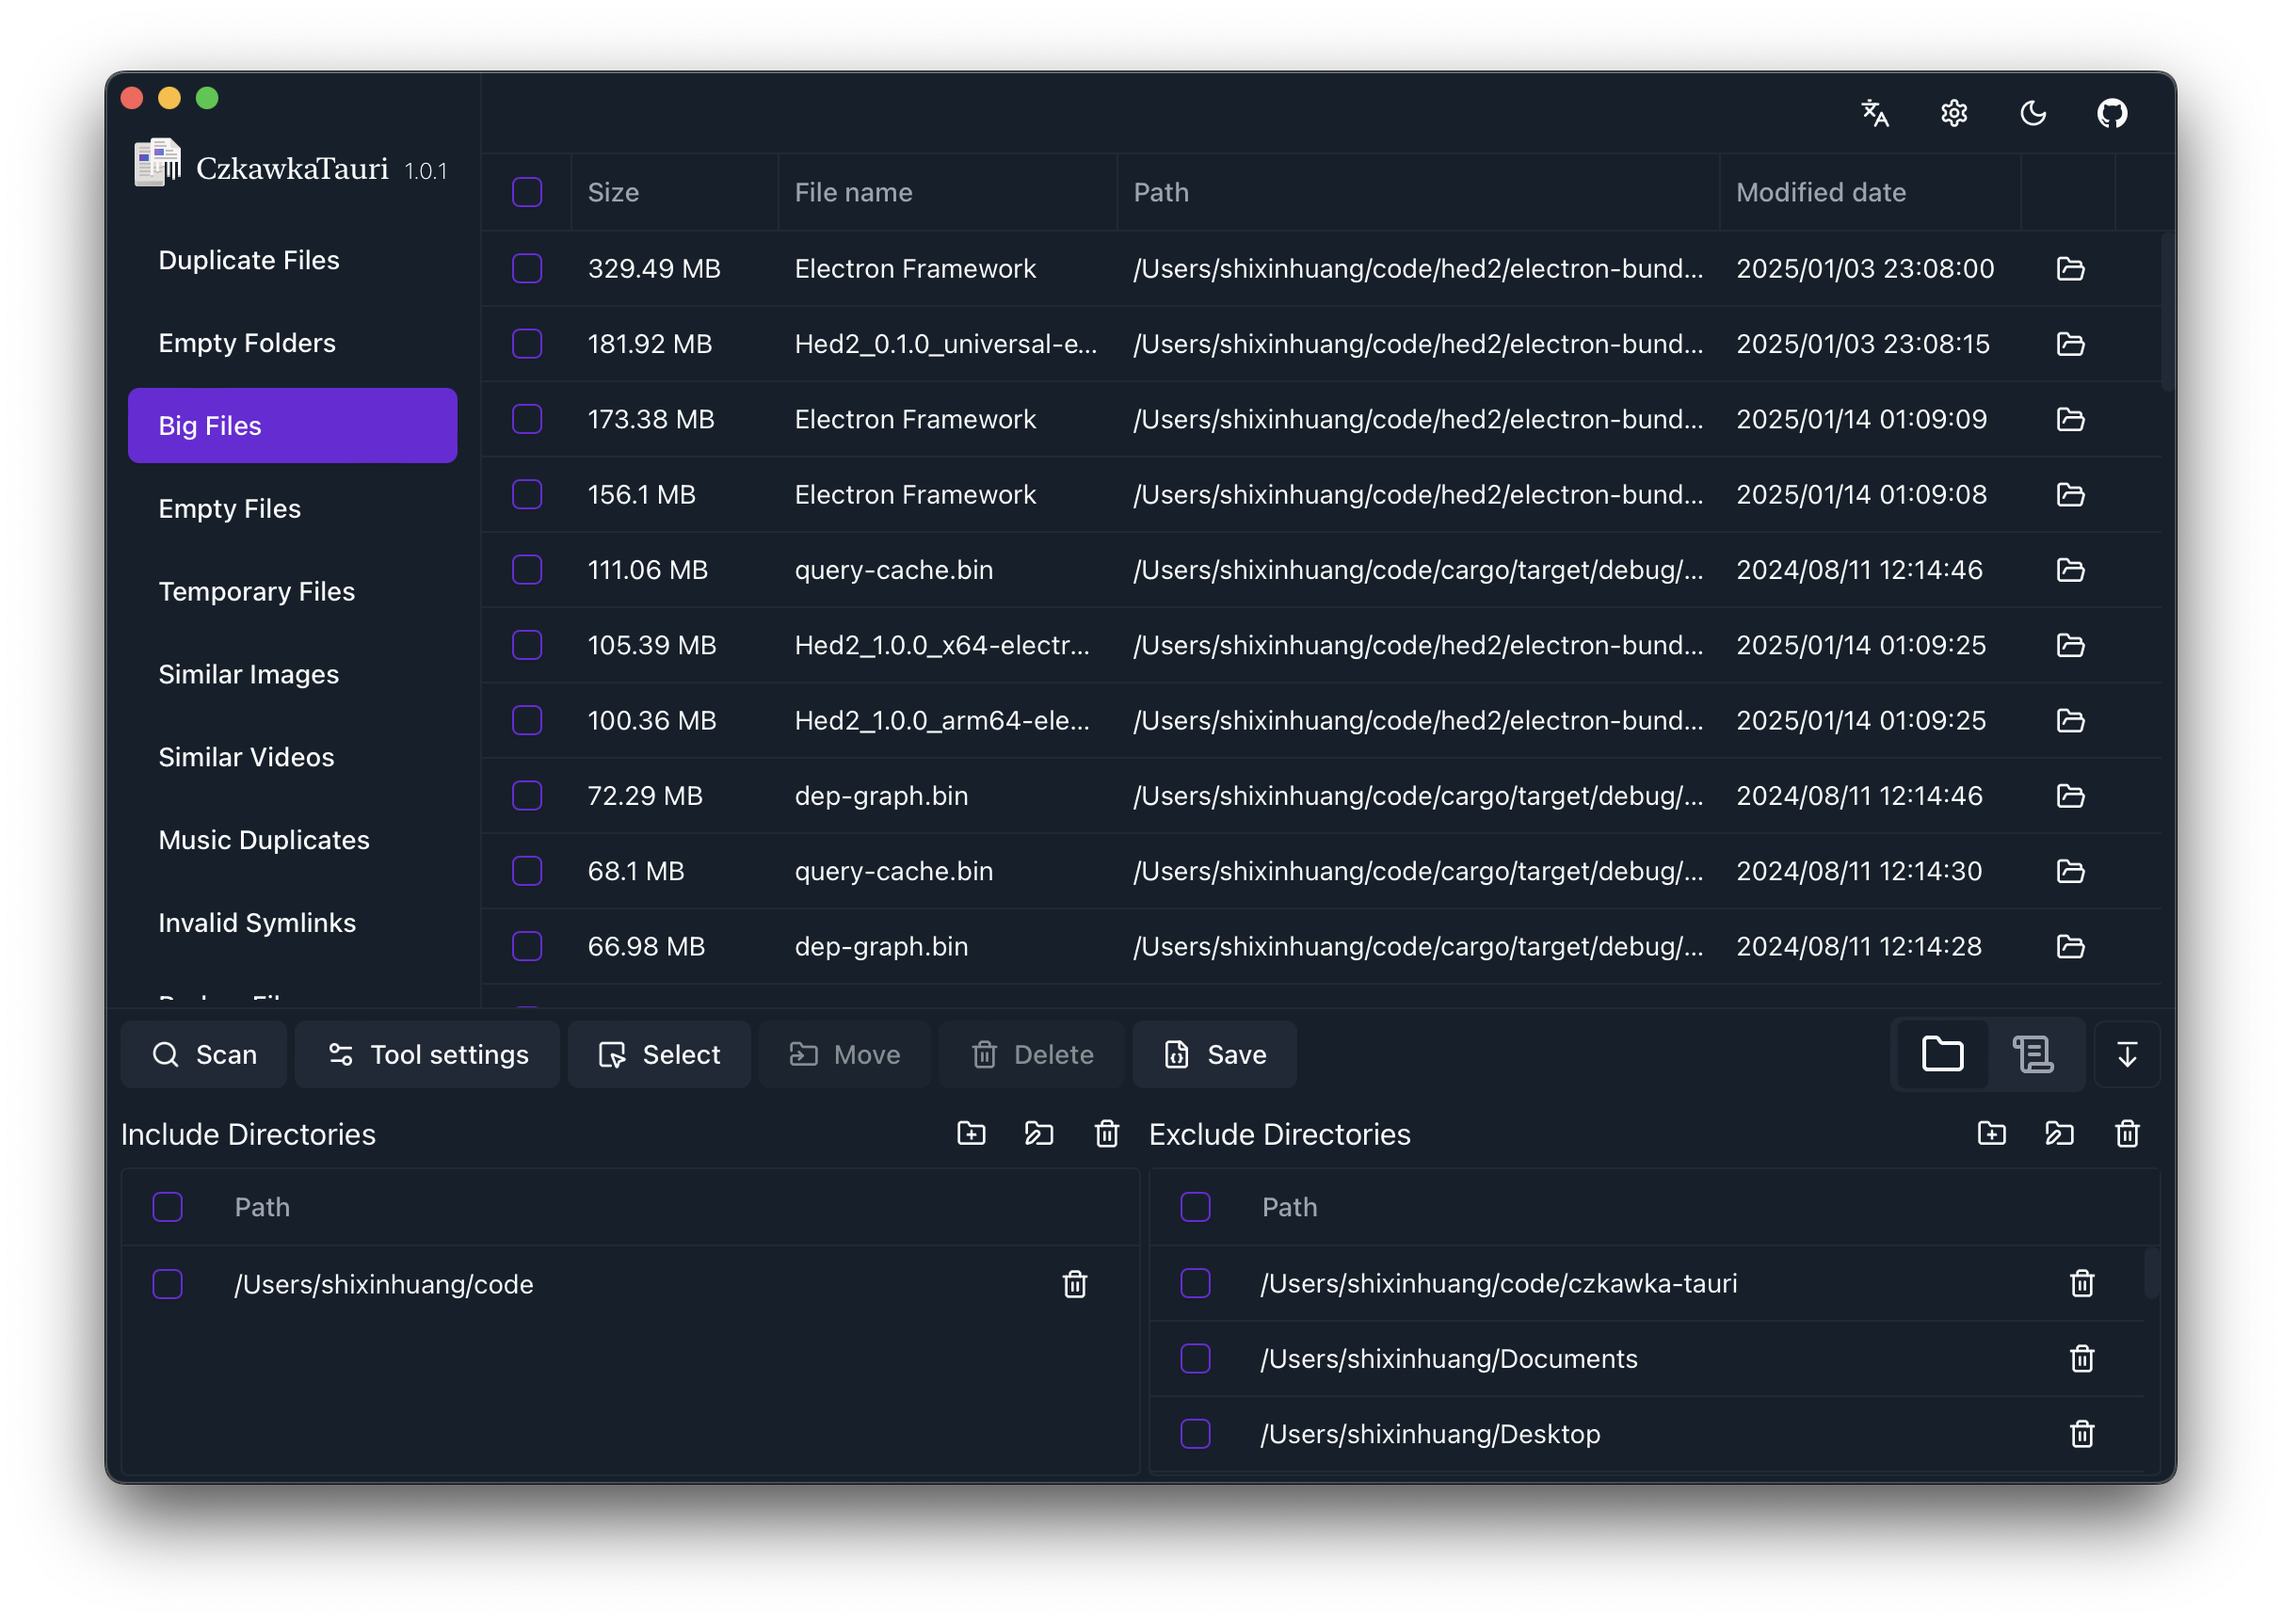
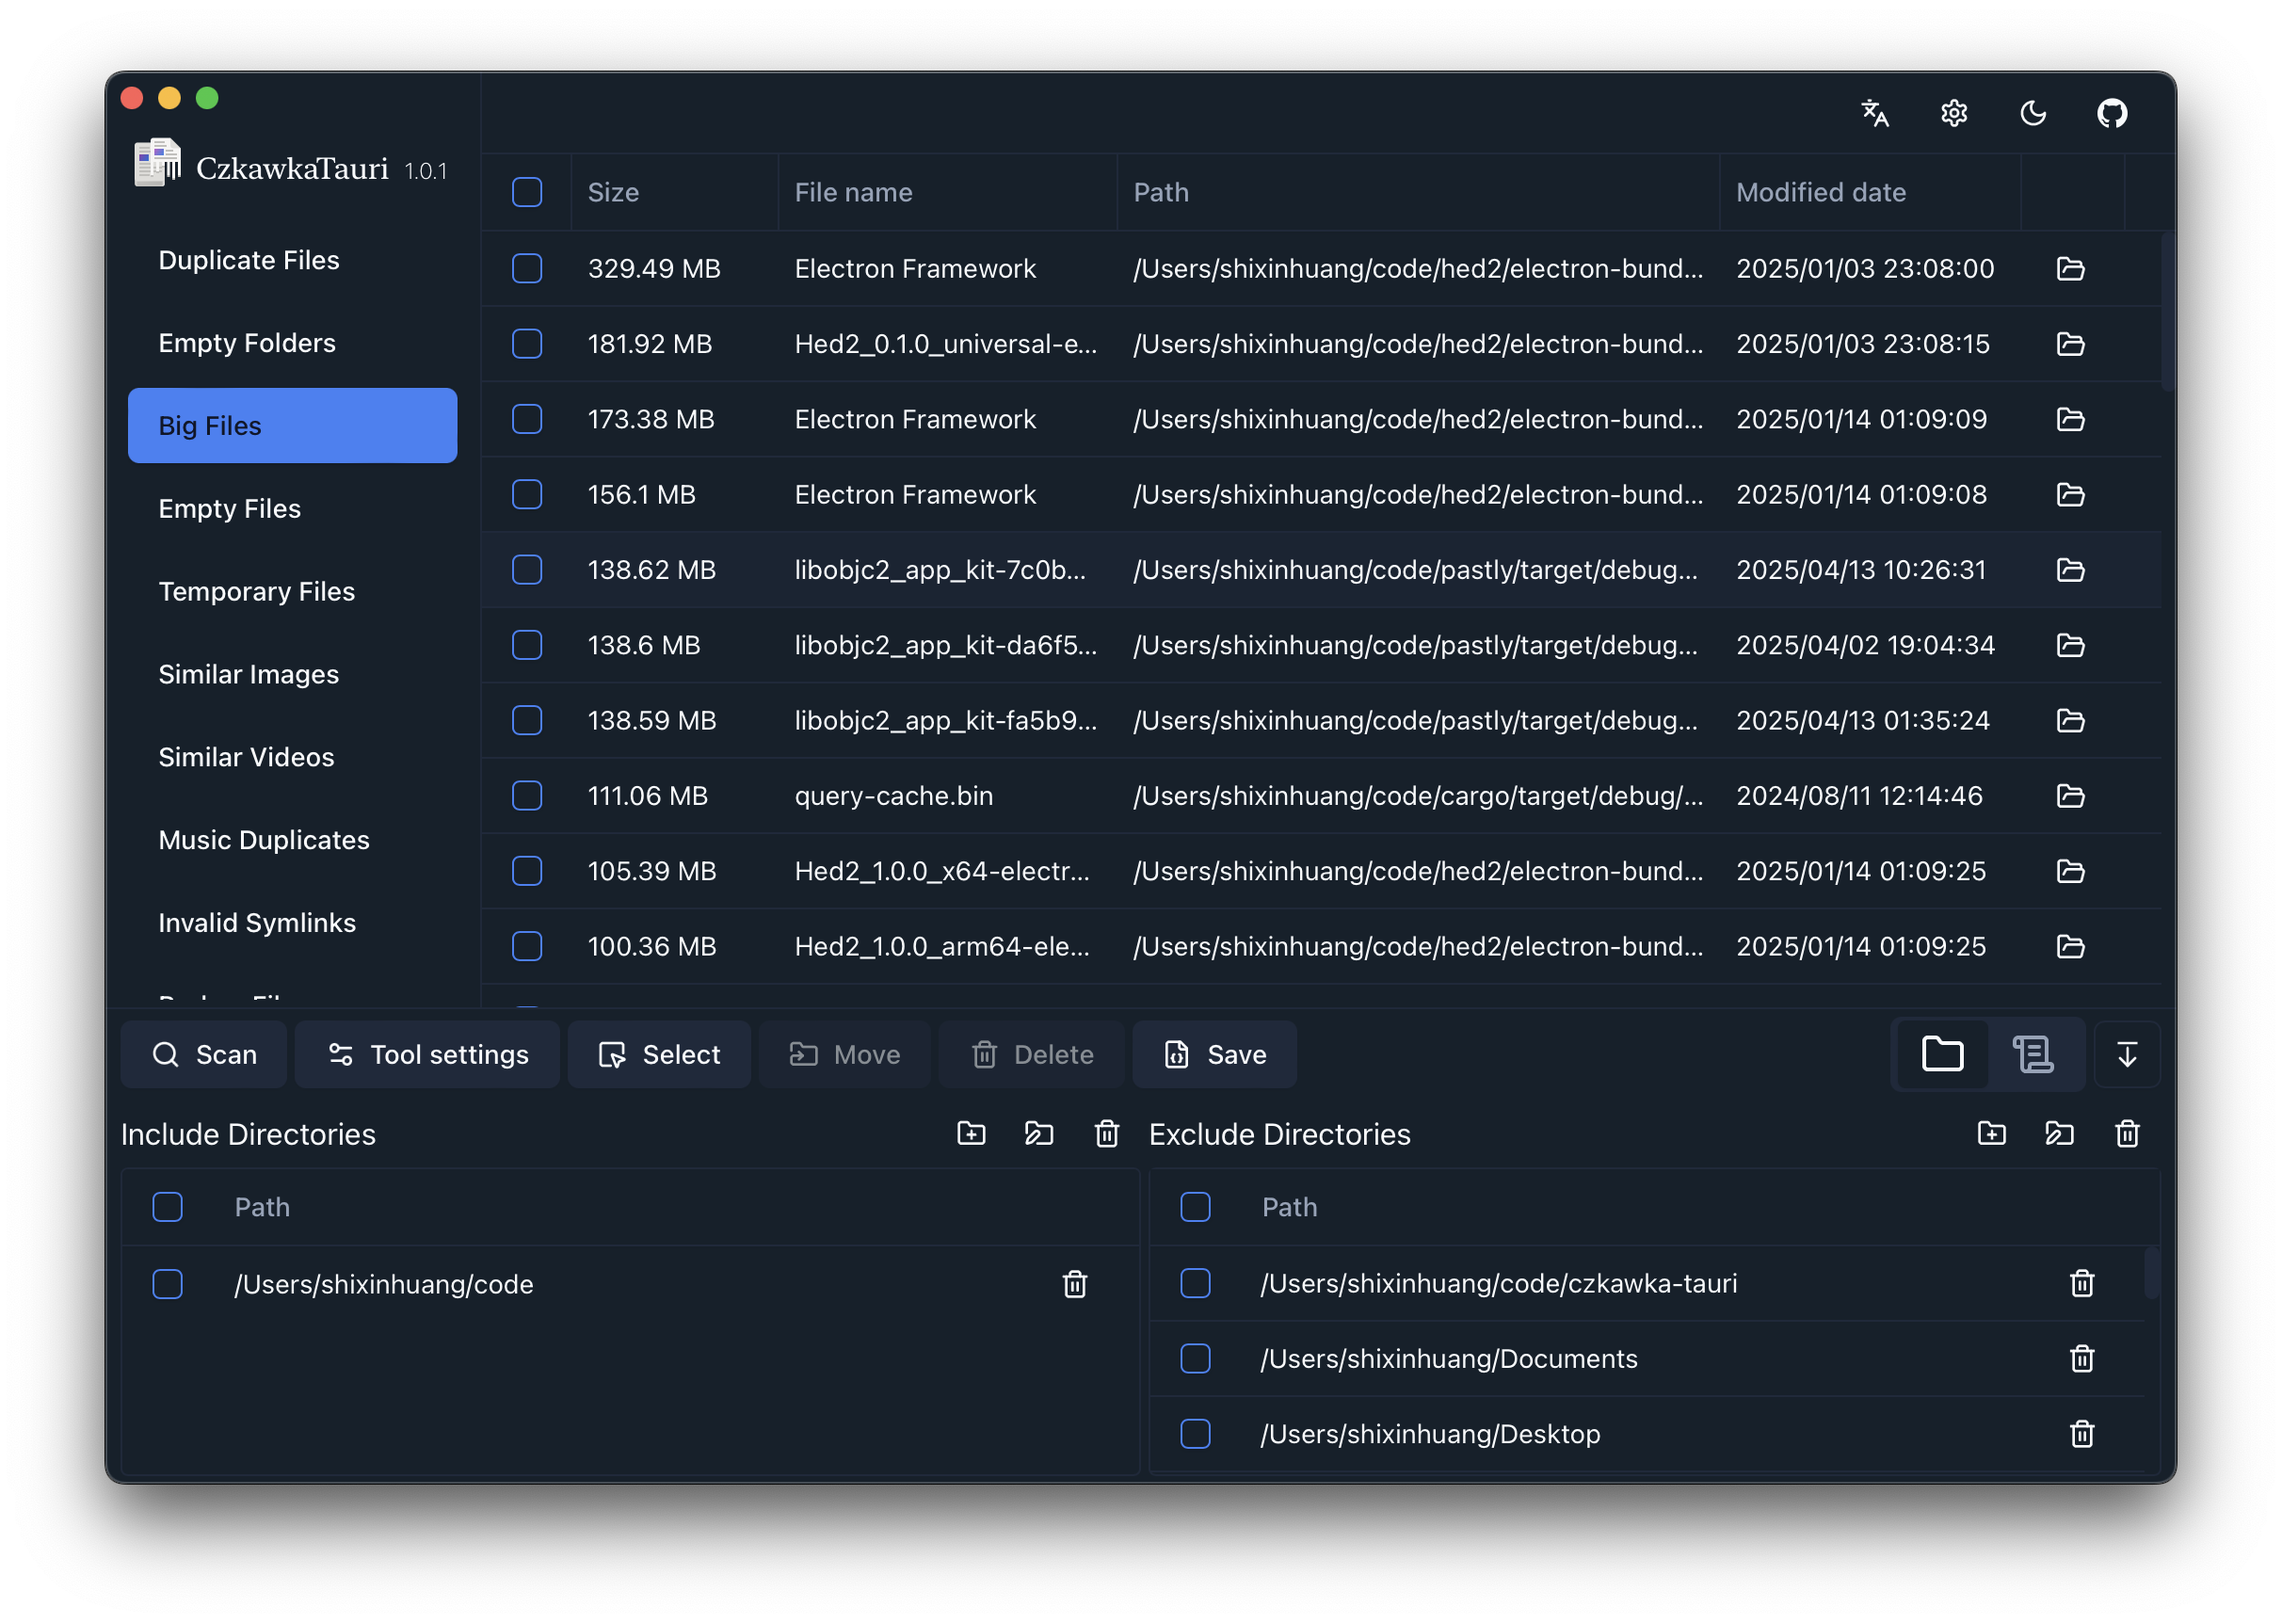
add info.plist and change primary color to blue in dark mode

diff --git a/ui/input.css b/ui/input.css
@@ -33,24 +33,24 @@
 
   .dark {
     --background: 210 34.38% 12.55%;
-    --foreground: 210 20% 98%;
-    --card: 224 71.4% 4.1%;
-    --card-foreground: 210 20% 98%;
-    --popover: 224 71.4% 4.1%;
-    --popover-foreground: 210 20% 98%;
-    --primary: 263.4 70% 50.4%;
-    --primary-foreground: 210 20% 98%;
-    --secondary: 215 27.9% 16.9%;
-    --secondary-foreground: 210 20% 98%;
-    --muted: 215 27.9% 16.9%;
-    --muted-foreground: 217.9 10.6% 64.9%;
-    --accent: 215 27.9% 16.9%;
-    --accent-foreground: 210 20% 98%;
+    --foreground: 210 40% 98%;
+    --card: 222.2 84% 4.9%;
+    --card-foreground: 210 40% 98%;
+    --popover: 222.2 84% 4.9%;
+    --popover-foreground: 210 40% 98%;
+    --primary: 217.2 91.2% 59.8%;
+    --primary-foreground: 222.2 47.4% 11.2%;
+    --secondary: 217.2 32.6% 17.5%;
+    --secondary-foreground: 210 40% 98%;
+    --muted: 217.2 32.6% 17.5%;
+    --muted-foreground: 215 20.2% 65.1%;
+    --accent: 217.2 32.6% 17.5%;
+    --accent-foreground: 210 40% 98%;
     --destructive: 0 62.8% 30.6%;
-    --destructive-foreground: 210 20% 98%;
-    --border: 215 27.9% 16.9%;
-    --input: 215 27.9% 16.9%;
-    --ring: 263.4 70% 50.4%;
+    --destructive-foreground: 210 40% 98%;
+    --border: 217.2 32.6% 17.5%;
+    --input: 217.2 32.6% 17.5%;
+    --ring: 224.3 76.3% 48%;
     --chart-1: 220 70% 50%;
     --chart-2: 160 60% 45%;
     --chart-3: 30 80% 55%;

diff --git a/ui/output.css b/ui/output.css
@@ -589,24 +589,24 @@ video {
 
 .dark {
   --background: 210 34.38% 12.55%;
-  --foreground: 210 20% 98%;
-  --card: 224 71.4% 4.1%;
-  --card-foreground: 210 20% 98%;
-  --popover: 224 71.4% 4.1%;
-  --popover-foreground: 210 20% 98%;
-  --primary: 263.4 70% 50.4%;
-  --primary-foreground: 210 20% 98%;
-  --secondary: 215 27.9% 16.9%;
-  --secondary-foreground: 210 20% 98%;
-  --muted: 215 27.9% 16.9%;
-  --muted-foreground: 217.9 10.6% 64.9%;
-  --accent: 215 27.9% 16.9%;
-  --accent-foreground: 210 20% 98%;
+  --foreground: 210 40% 98%;
+  --card: 222.2 84% 4.9%;
+  --card-foreground: 210 40% 98%;
+  --popover: 222.2 84% 4.9%;
+  --popover-foreground: 210 40% 98%;
+  --primary: 217.2 91.2% 59.8%;
+  --primary-foreground: 222.2 47.4% 11.2%;
+  --secondary: 217.2 32.6% 17.5%;
+  --secondary-foreground: 210 40% 98%;
+  --muted: 217.2 32.6% 17.5%;
+  --muted-foreground: 215 20.2% 65.1%;
+  --accent: 217.2 32.6% 17.5%;
+  --accent-foreground: 210 40% 98%;
   --destructive: 0 62.8% 30.6%;
-  --destructive-foreground: 210 20% 98%;
-  --border: 215 27.9% 16.9%;
-  --input: 215 27.9% 16.9%;
-  --ring: 263.4 70% 50.4%;
+  --destructive-foreground: 210 40% 98%;
+  --border: 217.2 32.6% 17.5%;
+  --input: 217.2 32.6% 17.5%;
+  --ring: 224.3 76.3% 48%;
   --chart-1: 220 70% 50%;
   --chart-2: 160 60% 45%;
   --chart-3: 30 80% 55%;
